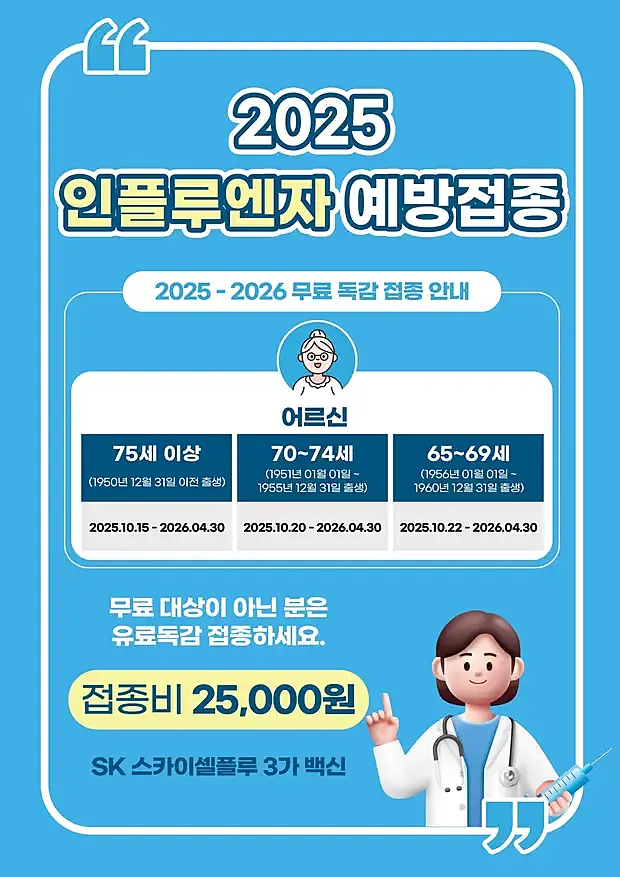
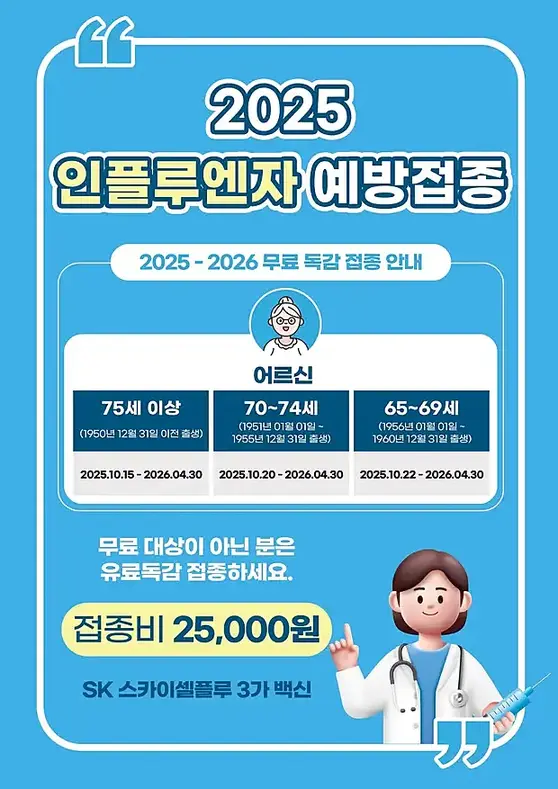
[작업] 속도튜닝
- 이미지 크기그대로 렌더링

diff --git a/src/popup.js b/src/popup.js
@@ -1,10 +1,12 @@
-import React, { useState, useEffect,useRef  } from "react";
+import React, { useState, useEffect, useRef } from "react";
 
 const Popup = ({ imageUrl, zIndex, onBringToFront, initialPosition = { x: 100, y: 100 } }) => {
   const [isVisible, setIsVisible] = useState(false);
   const [position, setPosition] = useState(initialPosition);
+  const [size, setSize] = useState({ width: 0, height: 0 });
   const dragging = useRef(false);
   const offset = useRef({ x: 0, y: 0 });
+  const imgRef = useRef(null);
 
   useEffect(() => {
     const hideUntil = localStorage.getItem("popup_hide_until");
@@ -15,11 +17,11 @@ const Popup = ({ imageUrl, zIndex, onBringToFront, initialPosition = { x: 100, y
 
   useEffect(() => {
     return () => {
-      window.removeEventListener('mousemove', handleMouseMove);
-      window.removeEventListener('mouseup', handleMouseUp);
-      window.removeEventListener('touchmove', handleTouchMove);
-      window.removeEventListener('touchend', handleTouchEnd);
-      window.removeEventListener('mouseleave', handleMouseUp);
+      window.removeEventListener("mousemove", handleMouseMove);
+      window.removeEventListener("mouseup", handleMouseUp);
+      window.removeEventListener("touchmove", handleTouchMove);
+      window.removeEventListener("touchend", handleTouchEnd);
+      window.removeEventListener("mouseleave", handleMouseUp);
     };
   }, []);
 
@@ -29,21 +31,32 @@ const Popup = ({ imageUrl, zIndex, onBringToFront, initialPosition = { x: 100, y
     offset.current = { x: e.clientX - position.x, y: e.clientY - position.y };
     onBringToFront();
 
-    window.addEventListener('mousemove', handleMouseMove);
-    window.addEventListener('mouseup', handleMouseUp);
-    window.addEventListener('mouseleave', handleMouseUp); // 추가
+    window.addEventListener("mousemove", handleMouseMove);
+    window.addEventListener("mouseup", handleMouseUp);
+    window.addEventListener("mouseleave", handleMouseUp);
   };
 
   const handleMouseMove = (e) => {
     if (!dragging.current) return;
-    setPosition({ x: e.clientX - offset.current.x, y: e.clientY - offset.current.y });
+
+    const newX = e.clientX - offset.current.x;
+    const newY = e.clientY - offset.current.y;
+
+    const popupWidth = size.width || imgRef.current?.offsetWidth || 300;
+    const viewportWidth = window.innerWidth;
+
+    // ✅ 좌우 화면 밖으로 안 나가게 clamp
+    const clampedX = Math.min(Math.max(0, newX), viewportWidth - popupWidth);
+    const clampedY = newY;
+
+    setPosition({ x: clampedX, y: clampedY });
   };
 
-  const handleMouseUp = (e) => {
+  const handleMouseUp = () => {
     dragging.current = false;
-    window.removeEventListener('mousemove', handleMouseMove);
-    window.removeEventListener('mouseup', handleMouseUp);
-    window.removeEventListener('mouseleave', handleMouseUp);
+    window.removeEventListener("mousemove", handleMouseMove);
+    window.removeEventListener("mouseup", handleMouseUp);
+    window.removeEventListener("mouseleave", handleMouseUp);
   };
 
   const handleTouchStart = (e) => {
@@ -53,21 +66,32 @@ const Popup = ({ imageUrl, zIndex, onBringToFront, initialPosition = { x: 100, y
     offset.current = { x: touch.clientX - position.x, y: touch.clientY - position.y };
     onBringToFront();
 
-    window.addEventListener('touchmove', handleTouchMove, { passive: false });
-    window.addEventListener('touchend', handleTouchEnd);
+    window.addEventListener("touchmove", handleTouchMove, { passive: false });
+    window.addEventListener("touchend", handleTouchEnd);
   };
 
   const handleTouchMove = (e) => {
     e.preventDefault();
     if (!dragging.current) return;
+
     const touch = e.touches[0];
-    setPosition({ x: touch.clientX - offset.current.x, y: touch.clientY - offset.current.y });
+    const newX = touch.clientX - offset.current.x;
+    const newY = touch.clientY - offset.current.y;
+
+    const popupWidth = size.width || imgRef.current?.offsetWidth || 300;
+    const viewportWidth = window.innerWidth;
+
+    // ✅ 좌우 화면 밖으로 안 나가게 clamp
+    const clampedX = Math.min(Math.max(0, newX), viewportWidth - popupWidth);
+    const clampedY = newY;
+
+    setPosition({ x: clampedX, y: clampedY });
   };
 
-  const handleTouchEnd = (e) => {
+  const handleTouchEnd = () => {
     dragging.current = false;
-    window.removeEventListener('touchmove', handleTouchMove);
-    window.removeEventListener('touchend', handleTouchEnd);
+    window.removeEventListener("touchmove", handleTouchMove);
+    window.removeEventListener("touchend", handleTouchEnd);
   };
 
   const handleClose = () => setIsVisible(false);
@@ -78,23 +102,38 @@ const Popup = ({ imageUrl, zIndex, onBringToFront, initialPosition = { x: 100, y
     setIsVisible(false);
   };
 
+  // ✅ 이미지 원본 크기로 팝업 크기 조정
+  useEffect(() => {
+    const img = imgRef.current;
+    if (img) {
+      const onLoad = () => {
+        setSize({ width: img.naturalWidth, height: img.naturalHeight });
+      };
+      if (img.complete) onLoad();
+      else img.addEventListener("load", onLoad);
+      return () => img.removeEventListener("load", onLoad);
+    }
+  }, [imageUrl]);
+
   if (!isVisible) return null;
 
   return (
-    <div 
+    <div
       onMouseDown={handleMouseDown}
       onTouchStart={handleTouchStart}
       style={{
         ...styles.overlay,
         top: position.y,
         left: position.x,
+        width: size.width,
+        height: size.height + 40,
         zIndex: zIndex,
       }}
     >
       <div style={styles.popup}>
-        <img src={imageUrl} alt="Popup" style={styles.image} width="800px" />
+        <img ref={imgRef} src={imageUrl} alt="Popup" style={styles.image} />
         <div style={styles.buttonContainer}>
-          <button onClick={handleClose} style={{ ...styles.button, ...styles.leftButton }}>
+          <button onClick={handleHideForOneDay} style={{ ...styles.button, ...styles.leftButton }}>
             1일 동안 보지 않음
           </button>
           <button onClick={handleClose} style={styles.button}>닫기</button>
@@ -104,19 +143,16 @@ const Popup = ({ imageUrl, zIndex, onBringToFront, initialPosition = { x: 100, y
   );
 };
 
-const isMobile = window.innerWidth <= 1024;
-const popupWidth = isMobile ? 300 : 600;
-
 const styles = {
   overlay: {
     position: "absolute",
-    display: "inline-block", // auto width
-    justifyContent: "center",
-    alignItems: "center",
+    display: "block",
     zIndex: 9999,
-    touchAction: 'none',
-    userSelect: 'none',
-    width: popupWidth,     // 또는 원하는 고정 크기
+    touchAction: "none",
+    userSelect: "none",
+    maxWidth: "none",
+    maxHeight: "none",
+    overflow: "visible",
   },
   popup: {
     backgroundColor: "white",
@@ -126,15 +162,16 @@ const styles = {
     display: "grid",
   },
   image: {
-    maxWidth: "100%",
+    maxWidth: "none",
     height: "auto",
+    display: "block",
   },
   buttonContainer: {
     display: "grid",
     gridTemplateColumns: "1fr 1fr",
     height: "40px",
     gap: "0",
-    border: "1px solid lightgray",
+    borderTop: "1px solid lightgray",
   },
   button: {
     cursor: "pointer",

diff --git a/src/App.js b/src/App.js
@@ -76,21 +76,24 @@ const App = () => {
   const pos1 = getCenterPosition({ offsetXPercent: initialPositions[0].x, offsetYPercent: initialPositions[0].y });
   const pos2 = getCenterPosition2({ offsetXPercent: initialPositions[1].x, offsetYPercent: initialPositions[1].y });
   const pos3 = getCenterPosition3({ offsetXPercent: initialPositions[2].x, offsetYPercent: initialPositions[2].y });
+  const imageurl1 = !isMobile ? "/images/popup/popup.webp" : "/images/popup/mobile/popup.webp";
+  const imageurl2 = !isMobile ? "/images/popup/popup5.webp" : "/images/popup/mobile/popup5.webp";
+  const imageurl3 = !isMobile ? "/images/popup/popup3.webp": "/images/popup/mobile/popup3.webp";
 
   return (
     <div className="total">
       <Popup 
-        imageUrl="/images/popup/popup.webp"
+        imageUrl={imageurl1}
         zIndex={zOrders[1]}
         onBringToFront={() => bringToFront(1)}
         initialPosition={pos1}
       />
-       <Popup imageUrl="/images/popup/popup5.webp"
+       <Popup imageUrl={imageurl2}
         zIndex={zOrders[2]}
         onBringToFront={() => bringToFront(2)}
         initialPosition={pos2}
       />
-      <Popup imageUrl="/images/popup/popup3.webp"
+      <Popup imageUrl={imageurl3}
         zIndex={zOrders[0]}
         onBringToFront={() => bringToFront(0)}
         initialPosition={pos3}
